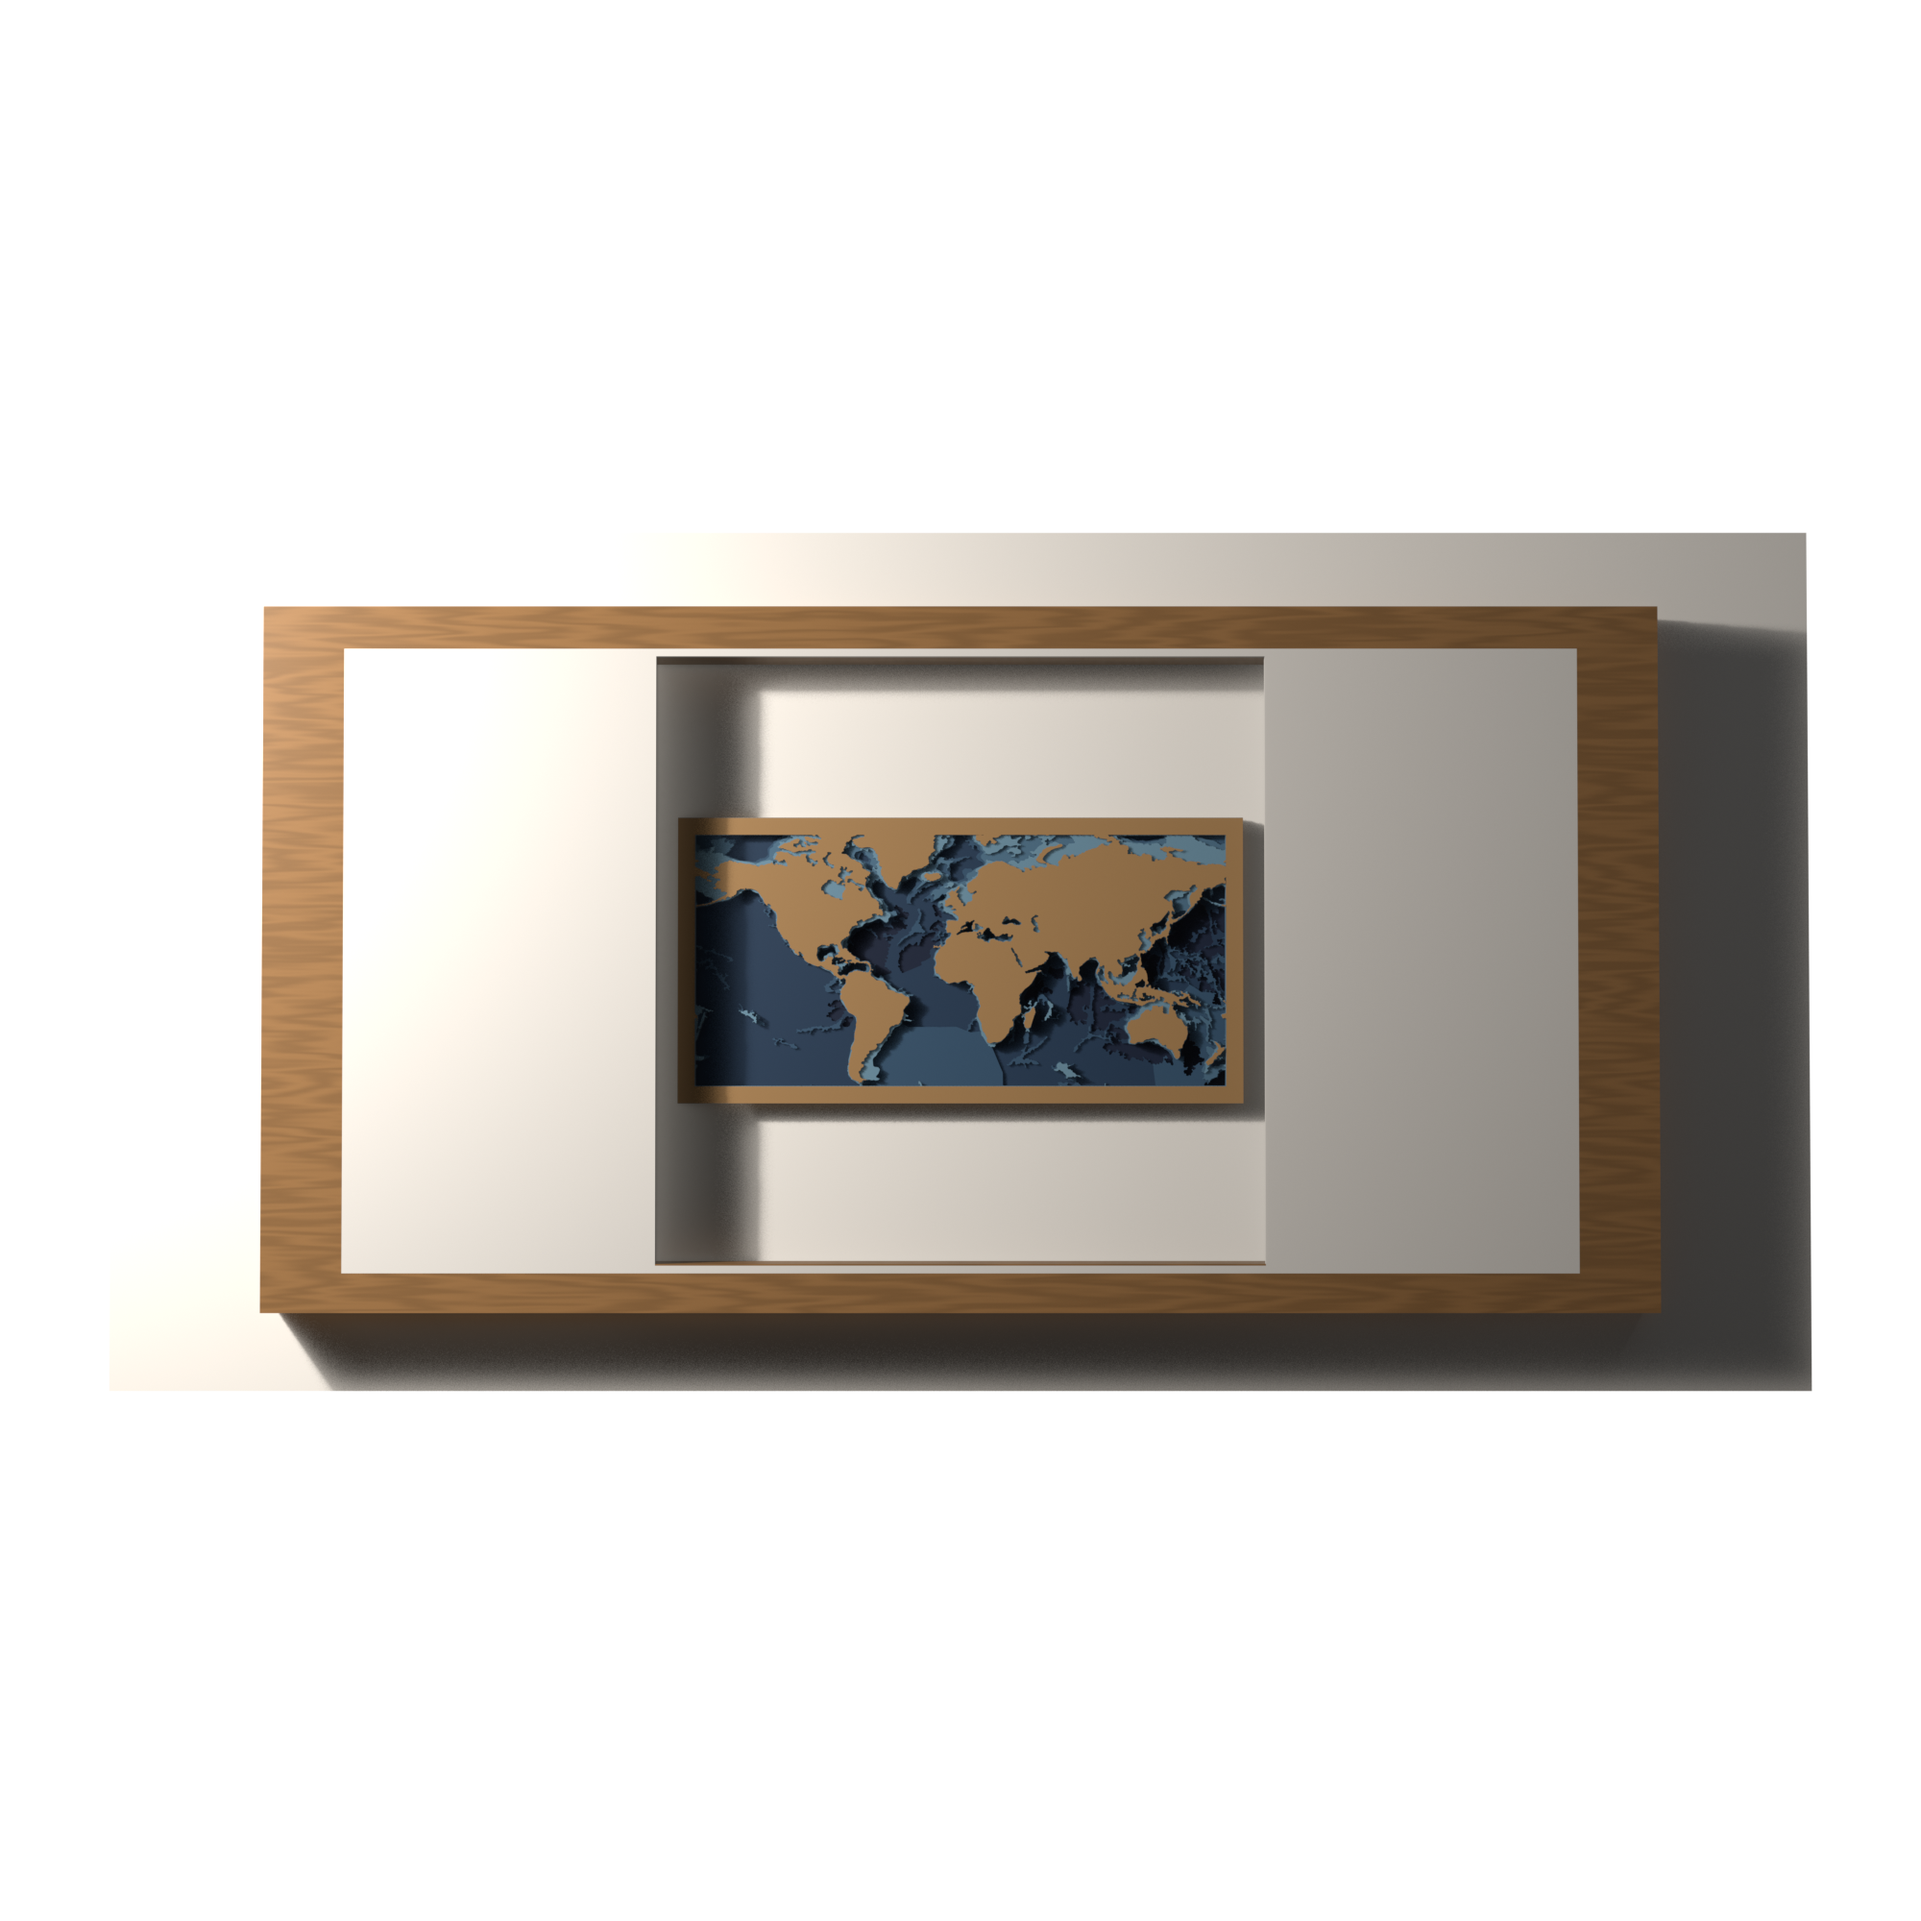
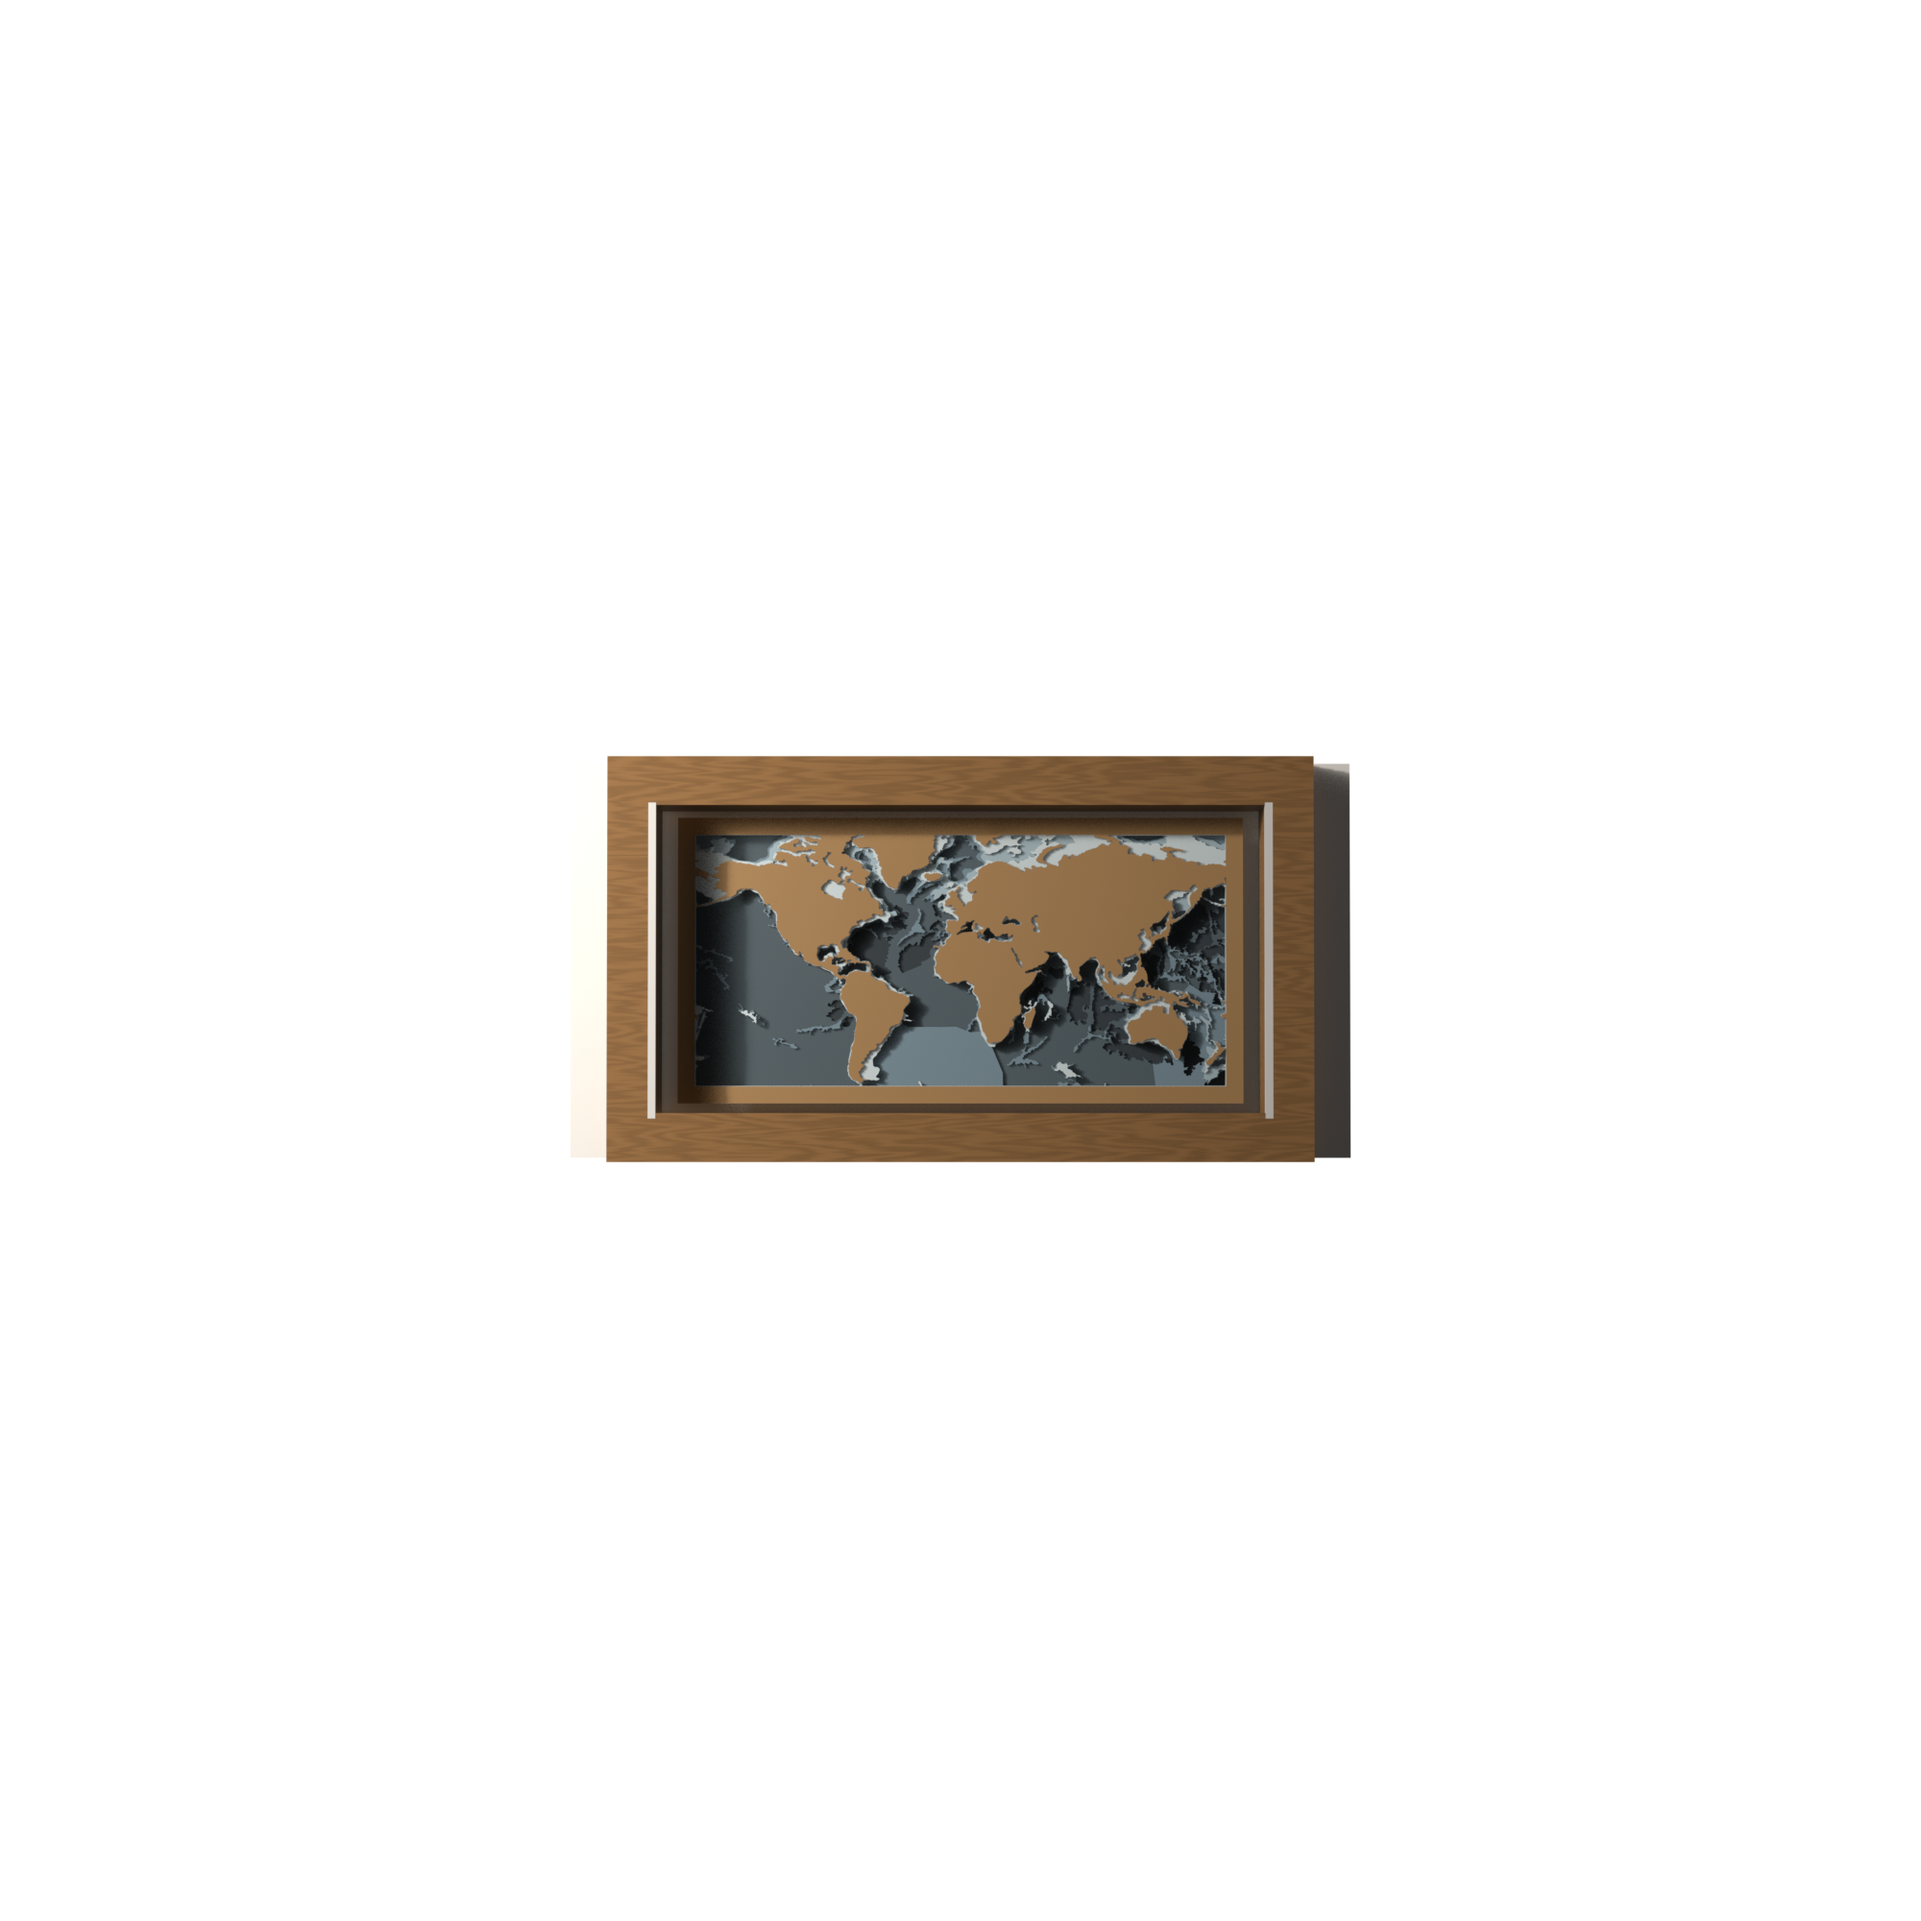
Vilagterkep: helyes oldalarany, vilagos batimetria-paletta, exploded nezet
A keret-negyzet oka: az elso 'javitasom' /max(1.0, 1/ASPECT)-tel osztott, ami
SOSEM oszt (mindig 1.0) - tengelyenkenti AX/AY szorzokkal ujrairva, es a
hatlap a mu labnyomara meretezve (az 1.10-es tulmeret feher savkent logott ki).

Paletta a referencia szerint: halvany self -> palaszurke mely, dio szarazfold
(a navy-dominans elso valtozat tul sotet volt).

Uj nezet: exploded - a lapok legyezoszeruen szethuzva, a keret a vegen,
celzott kameraval (a bbox kozeppontjara track-quat), a termekfoto-falak
eltavolitva, feher hatterrel. A referencia-listing legjobban konvertalo
galeriakave pont ez: a vevo LATJA, hogy hat kulon reteget vesz.

Menet kozben: a keret-test robbantva tomor doboznak latszott (a teljes stack
melysegevel keszul) - a nezetben lapokra lapitva; a sik feher hatlap a
legyezoben ertelmezhetetlen volt - eltavolitva.

Changed region(s): [[0.124, 0.279, 0.961, 0.744]]

diff --git a/product/render_blender.py b/product/render_blender.py
@@ -162,11 +162,13 @@ PALETTES = {
     # terrain: water/valley dark blue-green rising to sunlit rock and snow
     # rétegelt világtérkép: mély navy -> világoskék self, majd FA a szárazföldre.
     # A tetején szándékosan ugrik a szín: a víz és a part két külön anyag.
-    "bathy": [(0.010, 0.020, 0.055, 1),   # 6000 m
-              (0.020, 0.052, 0.115, 1),   # 4000 m
-              (0.042, 0.105, 0.200, 1),   # 2000 m
-              (0.085, 0.190, 0.310, 1),   # 1000 m
-              (0.170, 0.330, 0.470, 1),   # 200 m
+    # A referencia vilagosabb: a self majdnem feher, a mely palaszurke - a
+    # navy-dominans elso valtozat tul sotet volt mellette.
+    "bathy": [(0.040, 0.055, 0.070, 1),   # 6000 m: palaszurke
+              (0.095, 0.135, 0.165, 1),   # 4000 m
+              (0.210, 0.310, 0.390, 1),   # 2000 m
+              (0.420, 0.560, 0.650, 1),   # 1000 m
+              (0.680, 0.800, 0.860, 1),   # 200 m: halvany self
               (0.430, 0.255, 0.110, 1)],  # szárazföld: dió
     "terrain": [(0.09, 0.16, 0.20, 1), (0.16, 0.26, 0.20, 1), (0.30, 0.34, 0.20, 1),
                 (0.48, 0.40, 0.24, 1), (0.68, 0.58, 0.42, 1), (0.92, 0.90, 0.86, 1),
@@ -402,6 +404,10 @@ SIZE = max(maxv.x - minv.x, maxv.y - minv.y)
 # Egy 2:1-es vilagterkepnel ettol a mu a keret kozepen lebegett, korulotte
 # ures savokkal. Az arany kell, nem csak a meret.
 ASPECT = (maxv.x - minv.x) / max(1e-9, (maxv.y - minv.y))
+# Tengelyenkénti szorzók. Az első javítás /max(1.0, 1/ASPECT)-tel osztott, ami
+# sosem oszt (mindig 1.0 jön ki), ezért a keret négyzet maradt.
+AX = (maxv.x - minv.x) / max(1e-9, SIZE)
+AY = (maxv.y - minv.y) / max(1e-9, SIZE)
 print(f"[render] darab merete: {SIZE:.4f} egyseg")
 
 if ACCENT_ON:
@@ -541,7 +547,9 @@ if FRAME and not WHITE_TOP and not RECESSED:
     # largest, darkest layers - they vanished and the piece read as empty
     bpy.ops.mesh.primitive_plane_add(size=1.0, location=(0, 0, -THICK * 1.6))
     _bk = bpy.context.object
-    _bk.scale = (SIZE * 1.10 * max(1.0, ASPECT), SIZE * 1.10 / max(1.0, 1 / ASPECT), 1.0)
+    # pontosan a mu labnyoma: az 1.10-es tulmeret feher savkent logott ki a
+    # keret mogul a nem-negyzetes tablanal
+    _bk.scale = (SIZE * 0.998 * AX, SIZE * 0.998 * AY, 1.0)
     _bk.data.materials.append(wood("backing", (0.99, 0.988, 0.982, 1), 0.72,
                                    grain=False))
     FRAME_OBJS.append(_bk)
@@ -595,13 +603,13 @@ if FRAME:
     shell = bpy.context.object
     # x-ben az oldalarany szerint szeles, y-ban a magassag szerint - kulonben a
     # nem negyzetes mu a keret kozepen lebeg, korulotte ures savokkal
-    shell.scale = (outer * 2 * max(1.0, ASPECT), outer * 2 / max(1.0, 1 / ASPECT), fd)
+    shell.scale = (outer * 2 * AX, outer * 2 * AY + fw * 2 * (1 - AY), fd)
     # the opening must go ALL THE WAY THROUGH. Starting it at 0.28*depth left
     # the back of the shell solid, and that slab sat in front of the artwork:
     # only the two frontmost layers poked out and the piece looked empty.
     bpy.ops.mesh.primitive_cube_add(size=1, location=(0, 0, fd / 2))
     hole = bpy.context.object
-    hole.scale = (inner * 2 * max(1.0, ASPECT), inner * 2 / max(1.0, 1 / ASPECT), fd * 3)
+    hole.scale = (inner * 2 * AX, inner * 2 * AY, fd * 3)
     bm = shell.modifiers.new("cut", "BOOLEAN")
     bm.operation = "DIFFERENCE"
     bm.object = hole
@@ -622,8 +630,7 @@ if FRAME:
     # inner bevel: a thin lighter lip around the opening
     bpy.ops.mesh.primitive_cube_add(size=1, location=(0, 0, fd - fd * 0.06))
     _lip = bpy.context.object
-    _lip.scale = ((inner + fw * 0.16) * 2 * max(1.0, ASPECT),
-                  (inner + fw * 0.16) * 2 / max(1.0, 1 / ASPECT), fd * 0.12)
+    _lip.scale = ((inner + fw * 0.16) * 2 * AX, (inner + fw * 0.16) * 2 * AY, fd * 0.12)
     bpy.ops.mesh.primitive_cube_add(size=1, location=(0, 0, fd))
     _lh = bpy.context.object
     _lh.scale = (inner * 2, inner * 2, fd)
@@ -705,6 +712,39 @@ if VIEW == "styled":
 
     for name, loc, rz, sc in PROP_SETS.get(PROP_SET, PROP_SETS["warm"]):
         bring(name, loc, rot_z=rz, scale=sc)
+
+if VIEW == "exploded":
+    # The reference listing's best-converting gallery image: the sheets fanned
+    # apart so the buyer SEES that they are buying six separate layers.
+    for o in list(bpy.data.objects):
+        # the wall/floor planes of the product-shot setups only pollute this
+        # view - the reference floats on white void
+        if o.type == "MESH" and max(o.dimensions) > SIZE * 3:
+            bpy.data.objects.remove(o, do_unlink=True)
+    for o in list(FRAME_OBJS):
+        # a keret-test a teljes stack melysegevel keszul; robbantva ez tomor
+        # doboznak latszik. Lapitsuk a lapok vastagsagara. A sik hatlapot pedig
+        # dobjuk el: a legyezoben csak egy ertelmezhetetlen feher teglalap.
+        if o.dimensions.z < THICK * 0.5:
+            FRAME_OBJS.remove(o)
+            bpy.data.objects.remove(o, do_unlink=True)
+        elif o.dimensions.z > THICK * 4:
+            o.scale.z *= (THICK * 2.5) / o.dimensions.z
+    nmax = len(objs)
+    for o in objs + FRAME_OBJS:
+        k = o.location.z / max(1e-9, THICK + GAP)      # hanyadik lap
+        if o in FRAME_OBJS:
+            k = nmax + 1.6                              # a keret a legyezo vegen
+        o.location.x += k * SIZE * 0.145
+        o.location.y -= k * SIZE * 0.015
+        o.location.z = k * SIZE * 0.052
+    # feher vakolatra kerul, mint a referencian - az atlatszo hatter itt
+    # feketenek renderelodik minden sotet nezegoteben
+    scene.render.film_transparent = False
+    _w = scene.world or bpy.data.worlds.new("w_exploded")
+    scene.world = _w; _w.use_nodes = True
+    _w.node_tree.nodes["Background"].inputs[0].default_value = (0.94, 0.935, 0.925, 1)
+    _w.node_tree.nodes["Background"].inputs[1].default_value = 3.2   # AgX alatt az 1.0 szurkenek latszik
 
 if VIEW == "plate":
     # stand the piece up, nothing else in the scene
@@ -800,7 +840,26 @@ if FRAME:
     # the frame extends past the art, so the camera must be told the object is
     # bigger - otherwise it fits the art and crops the frame away
     MARGIN *= 1.45 * (SIZE / ART if ART else 1.0)
-if VIEW == "styled":
+if VIEW == "exploded":
+    # aim at the fan's true centre - a guessed rotation left the subject in a
+    # corner of a mostly empty frame
+    _pts = world_bbox([o for o in bpy.data.objects if o.type in ("CURVE", "MESH")])
+    cx = (min(q.x for q in _pts) + max(q.x for q in _pts)) / 2
+    cy = (min(q.y for q in _pts) + max(q.y for q in _pts)) / 2
+    cz = (min(q.z for q in _pts) + max(q.z for q in _pts)) / 2
+    ext = max(max(q.x for q in _pts) - min(q.x for q in _pts),
+              max(q.z for q in _pts) - min(q.z for q in _pts))
+    D = ext * 1.55
+    loc = (cx - D * 0.10, cy - D * 0.80, cz + D * 0.62)
+    bpy.ops.object.camera_add(location=loc)
+    cam = bpy.context.object
+    cam.data.lens = LENS
+    _dir = (cx - loc[0], cy - loc[1], cz - loc[2])
+    import mathutils as _mu
+    cam.rotation_euler = _mu.Vector(_dir).to_track_quat('-Z', 'Y').to_euler()
+    scene.camera = cam
+    print(f"[render] nezet=exploded kozeppont=({cx:.2f},{cy:.2f},{cz:.2f})")
+elif VIEW == "styled":
     D = SIZE * MARGIN * LENS / 36.0 * SCENE_ZOOM
     # aim at the artwork's centre rather than picking a tilt by hand. A fixed
     # tilt left half the picture as bare tabletop; aiming keeps the piece
